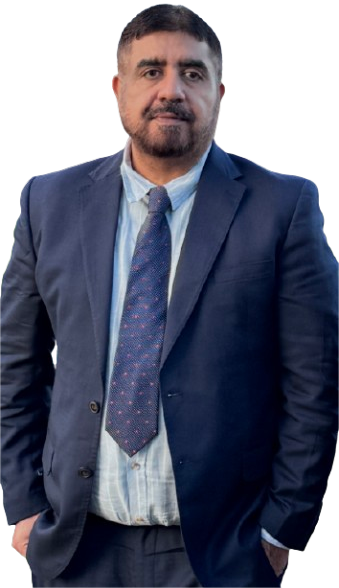
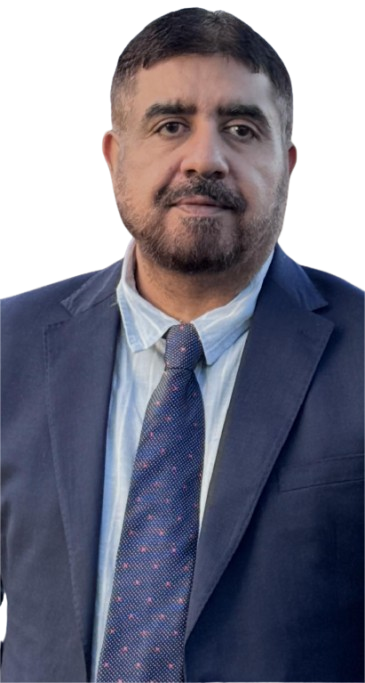
changes in ceo

diff --git a/frontend/src/components/Ourvision/Vission.jsx b/frontend/src/components/Ourvision/Vission.jsx
@@ -1,11 +1,11 @@
 import React from "react";
 import cofounder from '../../images/shaheer.png'
-import ceo from '../../images/ceo.png'
+import ceo from '../../images/ceo1.png'
 const VisionSection = () => {
   const visionaries = [
     {
       id: 1,
-      name: "Mhuhammad",
+      name: "Asef Iqbal",
       image: ceo ,// replace with your image path
       post:'CEO & Founder'
     },
@@ -39,22 +39,23 @@ const VisionSection = () => {
           MEET OUR <span className="text-red-500">VISIONARIES</span>
         </h2>
 
-        <div className="mt-10 flex flex-wrap justify-center gap-14">
-          {visionaries.map((person) => (
-            <div
-              key={person.id}
-              className="bg-white p-4 rounded-xl shadow-md w-64 text-center"
-            >
-              <img
-                src={person.image}
-                alt={person.name}
-                className="w-full rounded-lg"
-              />
-              <h3 className="mt-4 font-semibold text-lg">{person.name}</h3>
-              <p className="text-gray-600">{person.post}</p>
-            </div>
-          ))}
-        </div>
+       <div className="mt-10 flex flex-wrap justify-center gap-14">
+  {visionaries.map((person) => (
+    <div
+      key={person.id}
+      className="bg-white p-4 rounded-xl shadow-md w-64 text-center"
+    >
+      <img
+        src={person.image}
+        alt={person.name}
+        className="w-full h-72 object-contain rounded-lg" 
+      />
+      <h3 className="mt-4 font-semibold text-lg">{person.name}</h3>
+      <p className="text-gray-600">{person.post}</p>
+    </div>
+  ))}
+</div>
+
       </section>
     </div>
   );
